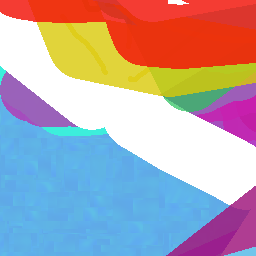
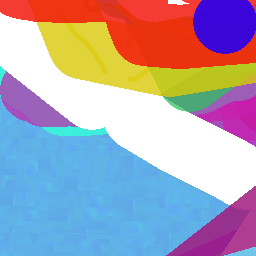
More progress on the fragment shader for the spray tool

Changed region(s): [[0.75, 0.0, 1.0, 0.2188]]

diff --git a/Code/Editor/editor_utilities.py b/Code/Editor/editor_utilities.py
@@ -1354,7 +1354,7 @@ class PencilTool(EditorTool):
 
     def __init__(self, active: bool, render_instance, screen_instance, gl_context):
         self.state = PencilTool.NOT_DRAWING  # (NOT_DRAWING = 0, DRAWING = 1)
-        self._brush_thickness: int = PencilTool._MIN_BRUSH_THICKNESS
+        self._brush_thickness: int = 4
         self.circle: list[list[int | list[float, float]]]
         self.update_brush_thickness(render_instance, screen_instance, gl_context, self._brush_thickness)
         self.brush_thickness_text_input = TextInput([0, 0, max([get_text_width(render_instance, str(brush_size) + 'px', PencilTool.TEXT_PIXEL_THICKNESS) for brush_size in range(PencilTool._MIN_BRUSH_THICKNESS, PencilTool._MAX_BRUSH_THICKNESS + 1)]) + (2 * PencilTool.TEXT_PIXEL_THICKNESS) + ((len(str(PencilTool._MAX_BRUSH_THICKNESS)) - 1) * PencilTool.TEXT_PIXEL_THICKNESS), get_text_height(PencilTool.TEXT_PIXEL_THICKNESS)], PencilTool._TEXT_BACKGROUND_COLOR, PencilTool._TEXT_COLOR, PencilTool._TEXT_HIGHLIGHT_COLOR, PencilTool._HIGHLIGHT_COLOR, PencilTool.TEXT_PIXEL_THICKNESS, PencilTool.TEXT_PIXEL_THICKNESS, [PencilTool._MIN_BRUSH_THICKNESS, PencilTool._MAX_BRUSH_THICKNESS], True, False, False, True, len(str(PencilTool._MAX_BRUSH_THICKNESS)), True, str(self.brush_thickness), ending_characters='px')
@@ -1410,7 +1410,7 @@ class SprayTool(EditorTool):
 
     def __init__(self, active: bool, render_instance, screen_instance, gl_context):
         self.state = SprayTool.NOT_SPRAYING  # (NOT_SPRAYING = 0, SPRAYING = 1)
-        self._spray_size: int = 4
+        self._spray_size: int = 64
         self._spray_thickness: int = SprayTool._MIN_SPRAY_THICKNESS
         self._spray_speed: int = SprayTool._MIN_SPRAY_SPEED
         self.outline: list[list[int | list[bool]]]
@@ -1557,7 +1557,7 @@ class EditorMap():
         [1, 64],
         [1, 128],
     ]
-    CIRCLE_OUTLINE_THICKNESS = 4
+    CIRCLE_OUTLINE_THICKNESS = 0
     CIRCLE_OUTLINE_REFERENCE = 'editor_circle_outline'
     _MAX_LOAD_TIME = 0.02
 
@@ -1969,15 +1969,14 @@ class EditorMap():
                     topest_spray_pixel = pos_y - ((self.current_tool.image_wh[1] - 1) // 2)
                     pixel_y = topest_pixel + ((topest_spray_pixel - ltrb[1] - half_spray_size) * self.pixel_scale) - EditorMap.CIRCLE_OUTLINE_THICKNESS
 
-                    ltwh = [pixel_x, pixel_y, (self.current_tool.spray_size * self.pixel_scale) + (2 * EditorMap.CIRCLE_OUTLINE_THICKNESS), (self.current_tool.spray_size * self.pixel_scale) + (2 * EditorMap.CIRCLE_OUTLINE_THICKNESS)]
-                    print(ltwh)
+                    ltwh = [pixel_x, pixel_y, int((self.current_tool.spray_size * self.pixel_scale) + (2 * EditorMap.CIRCLE_OUTLINE_THICKNESS)), int((self.current_tool.spray_size * self.pixel_scale) + (2 * EditorMap.CIRCLE_OUTLINE_THICKNESS))]
 
                     # condition if cursor is on the map
                     if cursor_on_map:
                         cursors.add_cursor_this_frame('cursor_big_crosshair')
                         # render_instance.store_draw(SprayTool.SPRAY_OUTLINE_REFERENCE, render_instance.invert_white, {'object_name': SprayTool.SPRAY_OUTLINE_REFERENCE, 'ltwh': ltwh})
                         # self.stored_draw_keys.append(SprayTool.SPRAY_OUTLINE_REFERENCE)
-                        render_instance.store_draw(EditorMap.CIRCLE_OUTLINE_REFERENCE, render_instance.editor_circle_outline, {'ltwh': ltwh, 'circle_size': self.current_tool.spray_size})
+                        render_instance.store_draw(EditorMap.CIRCLE_OUTLINE_REFERENCE, render_instance.editor_circle_outline, {'ltwh': ltwh, 'circle_size': self.current_tool.spray_size, 'circle_outline_thickness': EditorMap.CIRCLE_OUTLINE_THICKNESS, 'circle_pixel_size': self.pixel_scale})
                         self.stored_draw_keys.append(EditorMap.CIRCLE_OUTLINE_REFERENCE)
                     current_color_rgba = percent_to_rgba(editor_singleton.currently_selected_color.color)
 

diff --git a/Code/drawing_functions.py b/Code/drawing_functions.py
@@ -384,7 +384,7 @@ class RenderObjects():
         quads.release()
         renderer.release()
     #
-    def editor_circle_outline(self, Screen: ScreenObject, gl_context: moderngl.Context, ltwh: list[int, int, int, int], circle_size: int):
+    def editor_circle_outline(self, Screen: ScreenObject, gl_context: moderngl.Context, ltwh: list[int, int, int, int], circle_size: int, circle_outline_thickness: int, circle_pixel_size: float):
         # 'circle_outline', DrawCircleOutline
         program = self.programs['circle_outline'].program
         renderable_object = self.renderable_objects['white_pixel']
@@ -393,7 +393,11 @@ class RenderObjects():
         topright_x = topleft_x + ((2 * ltwh[2] * Screen.aspect) / Screen.width)
         bottomleft_y = topleft_y - ((2 * ltwh[3]) / Screen.height)
         program['aspect'] = Screen.aspect
-        # program['circle_size'] = circle_size
+        program['width'] = ltwh[2]
+        program['height'] = ltwh[3]
+        program['circle_size'] = circle_size
+        program['circle_pixel_size'] = circle_pixel_size
+        # program['circle_outline_thickness'] = circle_outline_thickness
         quads = gl_context.buffer(data=array('f', [topleft_x, topleft_y, 0.0, 0.0, topright_x, topleft_y, 1.0, 0.0, topleft_x, bottomleft_y, 0.0, 1.0, topright_x, bottomleft_y, 1.0, 1.0,]))
         renderer = gl_context.vertex_array(program, [(quads, '2f 2f', 'vert', 'texcoord')])
         renderable_object.texture.use(0)
@@ -1258,6 +1262,11 @@ class DrawCircleOutline():
         const vec3 WHITE = vec3(1.0, 1.0, 1.0);
 
         uniform sampler2D tex;
+        uniform int width;
+        uniform int height;
+
+        uniform float circle_size;
+        uniform float circle_pixel_size;
 
         in vec2 uvs;
         out vec4 f_color;
@@ -1266,10 +1275,21 @@ class DrawCircleOutline():
             vec3 destination_color = gl_LastFragData[0].rgb;
             float luminosity = dot(destination_color, vec3(0.299, 0.587, 0.114));
             f_color = vec4(texture(tex, uvs).rgba);
+            f_color.rgb = destination_color;
 
-            if (luminosity < 0.5) {
-                f_color.rgb = WHITE;
-            } else {
+            float pixel_center = width / 2;
+            float pixel_x = round(uvs.x * (width - 1)) + 0.5;
+            float pixel_y = round(uvs.y * (height - 1)) + 0.5;
+            float pixel_radial_distance = sqrt(pow(abs(pixel_x - pixel_center), 2) + pow(abs(pixel_y - pixel_center), 2));
+            float pixel_circle_radius = (circle_size * circle_pixel_size) / 2;
+
+            float editor_center = circle_size / 2;
+            float editor_pixel_x = floor(pixel_x / circle_pixel_size) + 0.5;
+            float editor_pixel_y = floor(pixel_y / circle_pixel_size) + 0.5;
+            float editor_radial_distance = pow(abs(editor_pixel_x - editor_center), 2) + pow(abs(editor_pixel_y - editor_center), 2);
+            float editor_circle_radius = pow(((circle_size - 0.5) / 2), 2);
+
+            if (editor_radial_distance >= editor_circle_radius) {
                 f_color.rgb = BLACK;
             }
         }
